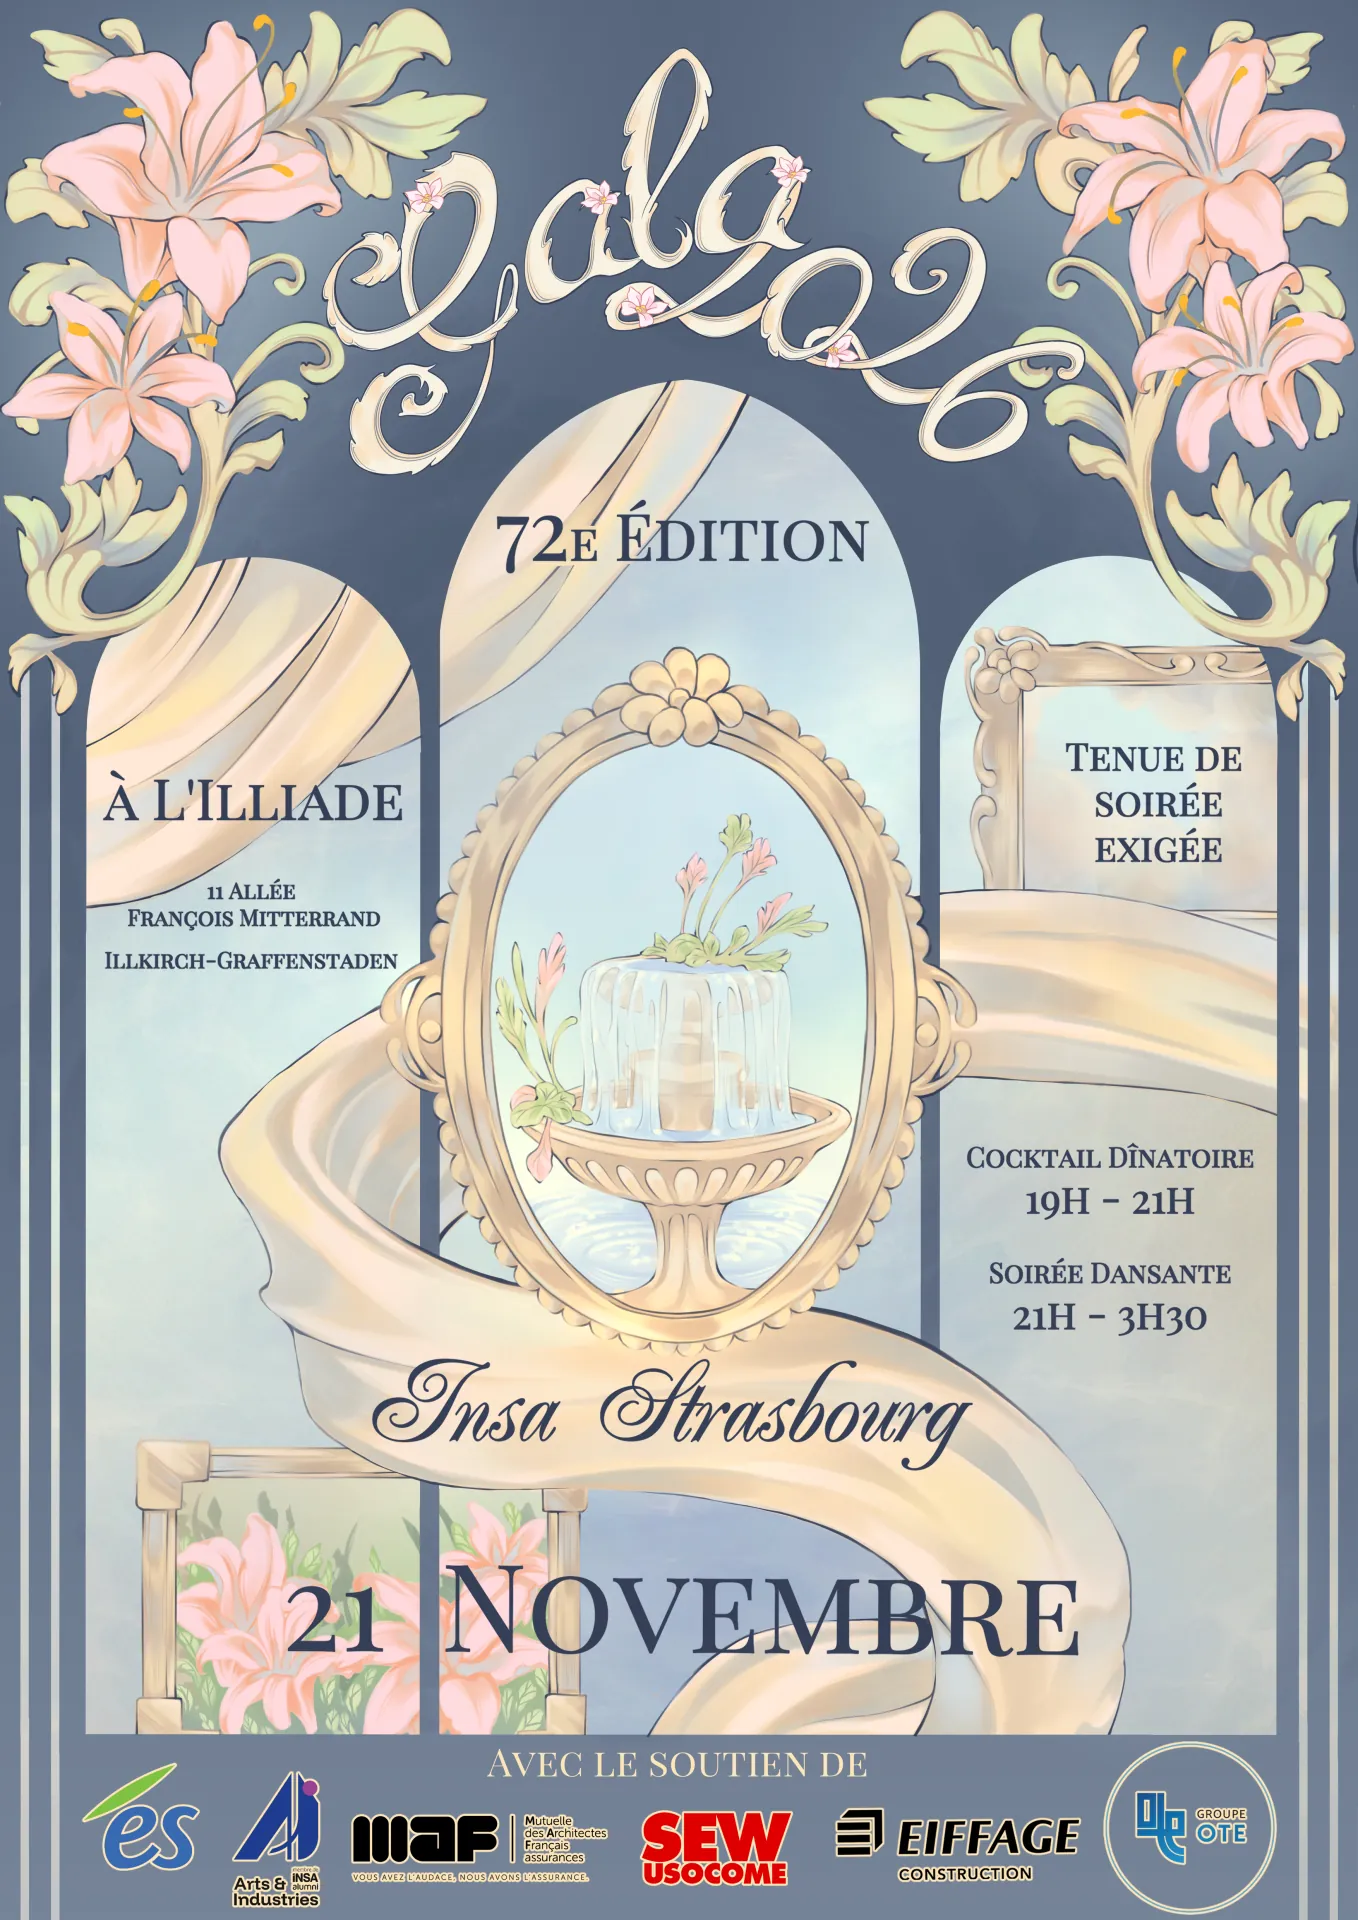
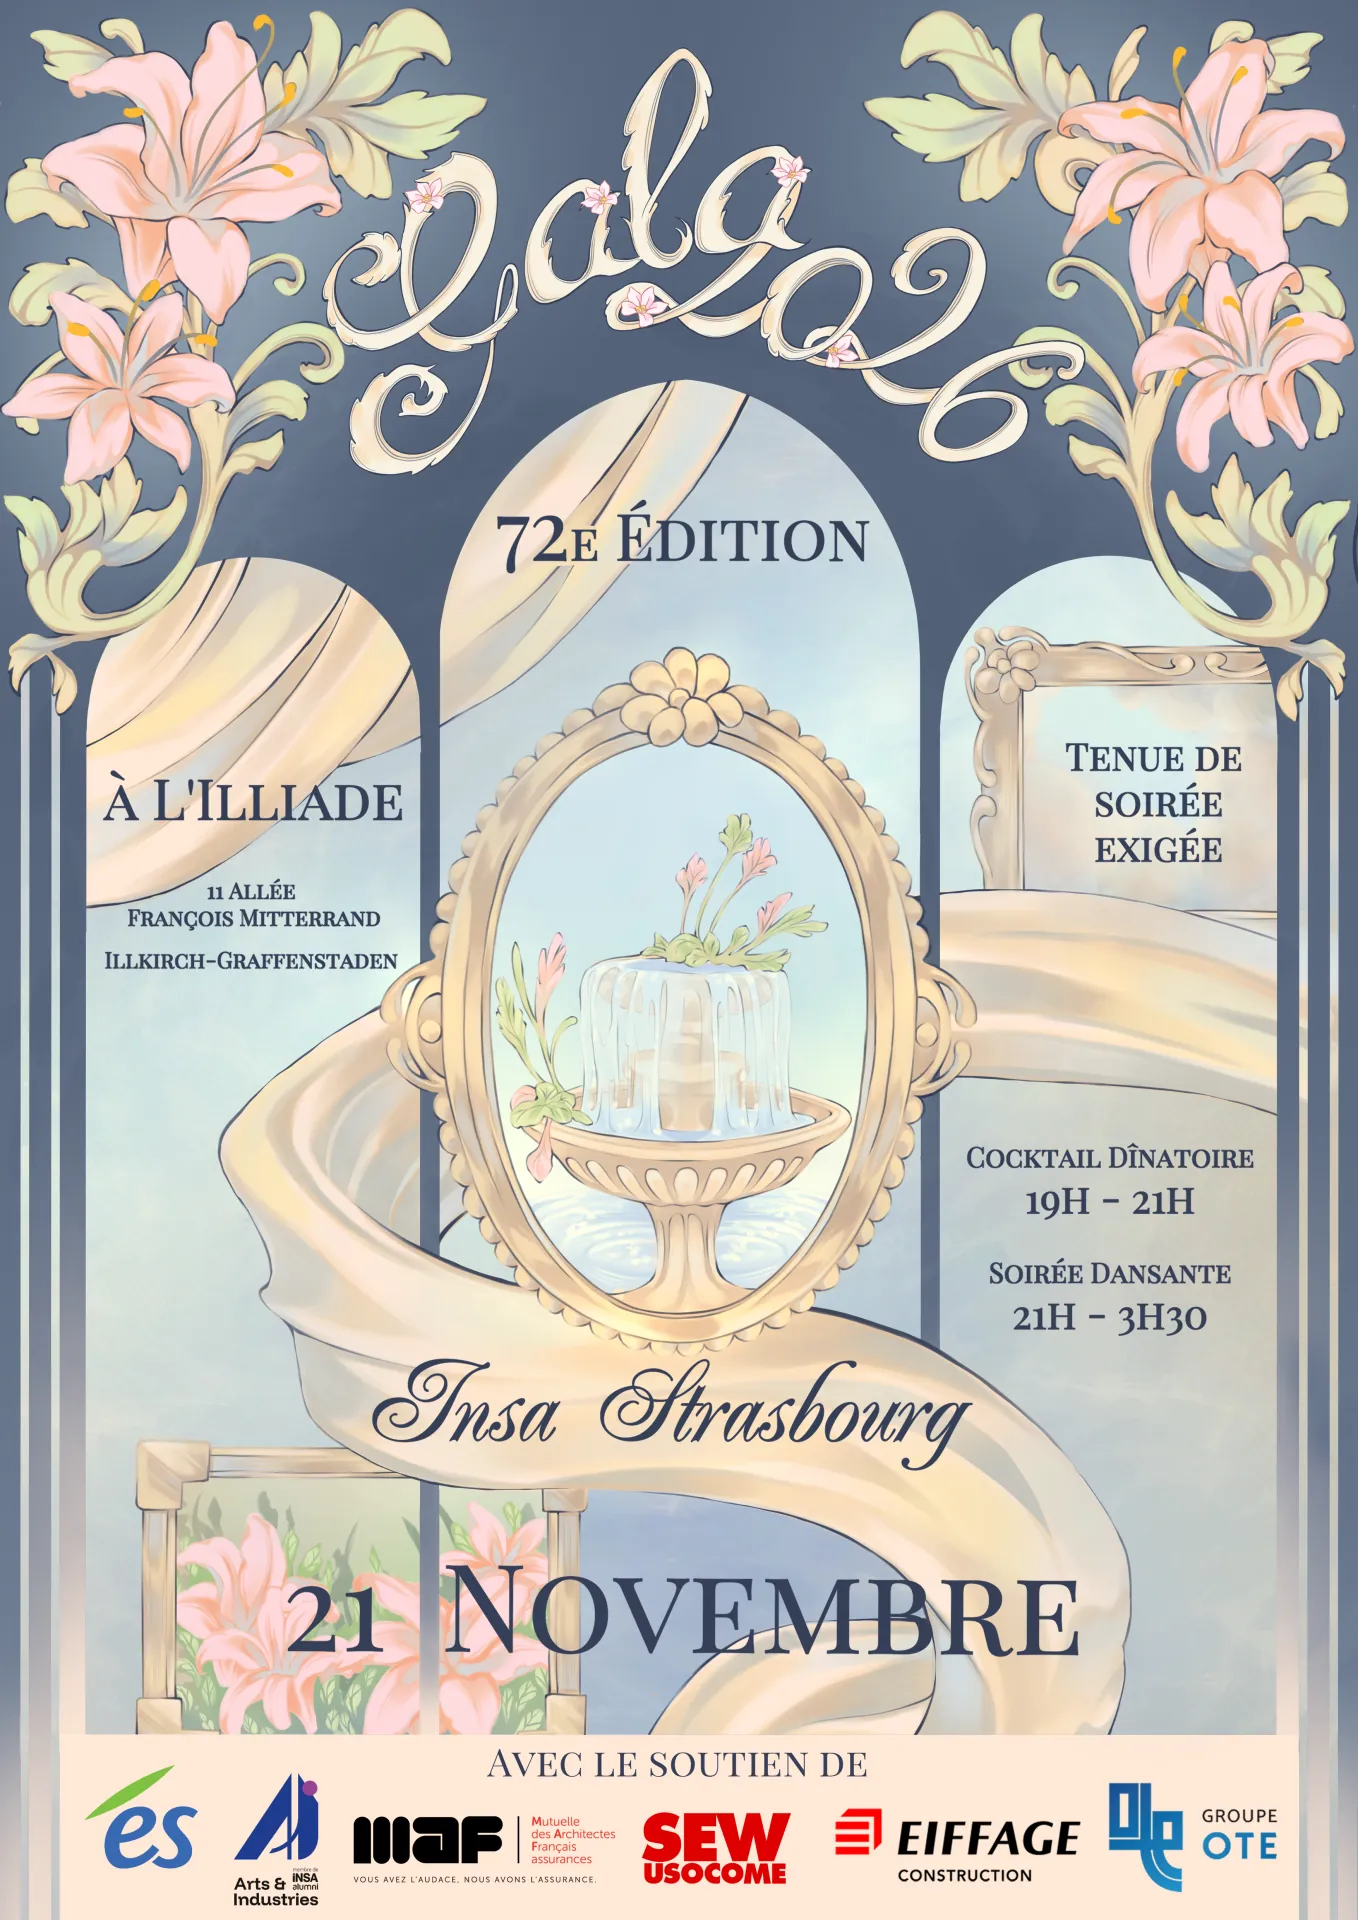
Mise à jour du contenu et des visuels du gala

Changed region(s): [[0.0, 0.625, 1.0, 1.0]]

diff --git a/src/components/soiree/Buffet.tsx b/src/components/soiree/Buffet.tsx
@@ -3,9 +3,13 @@
 import { useMemo, useRef, useState } from "react";
 import {
   Bean,
+  Carrot,
   ChevronDown,
   Egg,
   Fish,
+  Flower2,
+  Grape,
+  Leaf,
   Milk,
   Nut,
   Shrimp,
@@ -23,12 +27,18 @@ const ALLERGEN_META: Record<
   { label: string; Icon: LucideIcon; bg: string; text: string; border: string }
 > = {
   gluten: { label: "Gluten", Icon: Wheat, bg: "#F5DCE3", text: "#8A4A5C", border: "#E9C1CF" },
-  lactose: { label: "Lactose", Icon: Milk, bg: "#E8EEF6", text: "#2C3E5C", border: "#C6D7E8" },
+  lactose: { label: "Lait", Icon: Milk, bg: "#E8EEF6", text: "#2C3E5C", border: "#C6D7E8" },
   oeufs: { label: "Œufs", Icon: Egg, bg: "#FDF6E3", text: "#8A6A1F", border: "#F0D9A6" },
   fruits_coque: { label: "Fruits à coque", Icon: Nut, bg: "#F5DCE3", text: "#8A4A5C", border: "#E9C1CF" },
   soja: { label: "Soja", Icon: Bean, bg: "#D6EDCF", text: "#2C3E5C", border: "#B6D2AE" },
   poisson: { label: "Poisson", Icon: Fish, bg: "#E8EEF6", text: "#2C3E5C", border: "#C6D7E8" },
   crustaces: { label: "Crustacés", Icon: Shrimp, bg: "#FDF6E3", text: "#8A6A1F", border: "#F0D9A6" },
+  arachides: { label: "Arachides", Icon: Nut, bg: "#F5DCE3", text: "#8A4A5C", border: "#E9C1CF" },
+  celeri: { label: "Céleri", Icon: Leaf, bg: "#D6EDCF", text: "#2C3E5C", border: "#B6D2AE" },
+  moutarde: { label: "Moutarde", Icon: Carrot, bg: "#FDF6E3", text: "#8A6A1F", border: "#F0D9A6" },
+  sesame: { label: "Sésame", Icon: Flower2, bg: "#F9C9D4", text: "#8A4A5C", border: "#E9C1CF" },
+  sulfites: { label: "Sulfites", Icon: Grape, bg: "#D9D6E3", text: "#3F5B76", border: "#B9B4C9" },
+  lupin: { label: "Lupin", Icon: Flower2, bg: "#AFC6E3", text: "#2C3E5C", border: "#8FAECC" },
 };
 
 /** Ordre d'affichage canonique (légende) */
@@ -40,6 +50,12 @@ const ALLERGEN_ORDER = [
   "soja",
   "poisson",
   "crustaces",
+  "arachides",
+  "celeri",
+  "moutarde",
+  "sesame",
+  "sulfites",
+  "lupin",
 ] as const;
 
 const REGIME_LABELS: Record<string, string> = {

diff --git a/schemas/soiree.ts b/schemas/soiree.ts
@@ -132,6 +132,12 @@ export default defineType({
                           { title: "Soja", value: "soja" },
                           { title: "Poisson", value: "poisson" },
                           { title: "Crustacés", value: "crustaces" },
+                          { title: "Arachides", value: "arachides" },
+                          { title: "Céleri", value: "celeri" },
+                          { title: "Moutarde", value: "moutarde" },
+                          { title: "Sésame", value: "sesame" },
+                          { title: "Sulfites", value: "sulfites" },
+                          { title: "Lupin", value: "lupin" },
                         ],
                       },
                     },

diff --git a/SANITY.md b/SANITY.md
@@ -213,7 +213,7 @@ export const schemaTypes = [
 
 ### Particularités notables
 
-- **Menu Buffer (`soiree.ts`)** : Utilise un champ `array` d'objets imbriqués avec un champ `allergenes` de type `array` avec une `list` prédéfinie des 14 allergènes réglementaires.
+- **Menu Buffet (`soiree.ts`)** : Utilise un champ `array` d'objets imbriqués avec un champ `allergenes` de type `array` avec une `list` prédéfinie des 13 allergènes réglementaires. Le repas 2026 en utilise 12 ; le code historique `lactose` est conservé pour les données existantes, mais affiché comme « Lait ».
 - **Hotpot** : Les images utilisent `options: { hotspot: true }` pour permettre le recadrage interactif dans le Studio.
 - **Ordre d'affichage** : Les schémas `partner`, `ticket`, `faq`, `teamMember`, `lineup` incluent un champ `displayOrder` avec un `ordering` associé pour le tri.
 - **Singletons** : Les schémas `hero`, `soiree`, `infosPratiques` sont conçus comme des singletons (un seul document) — le contrôle se fait par la logique applicative (requête `[0]`), pas encore par une structure personnalisée.
